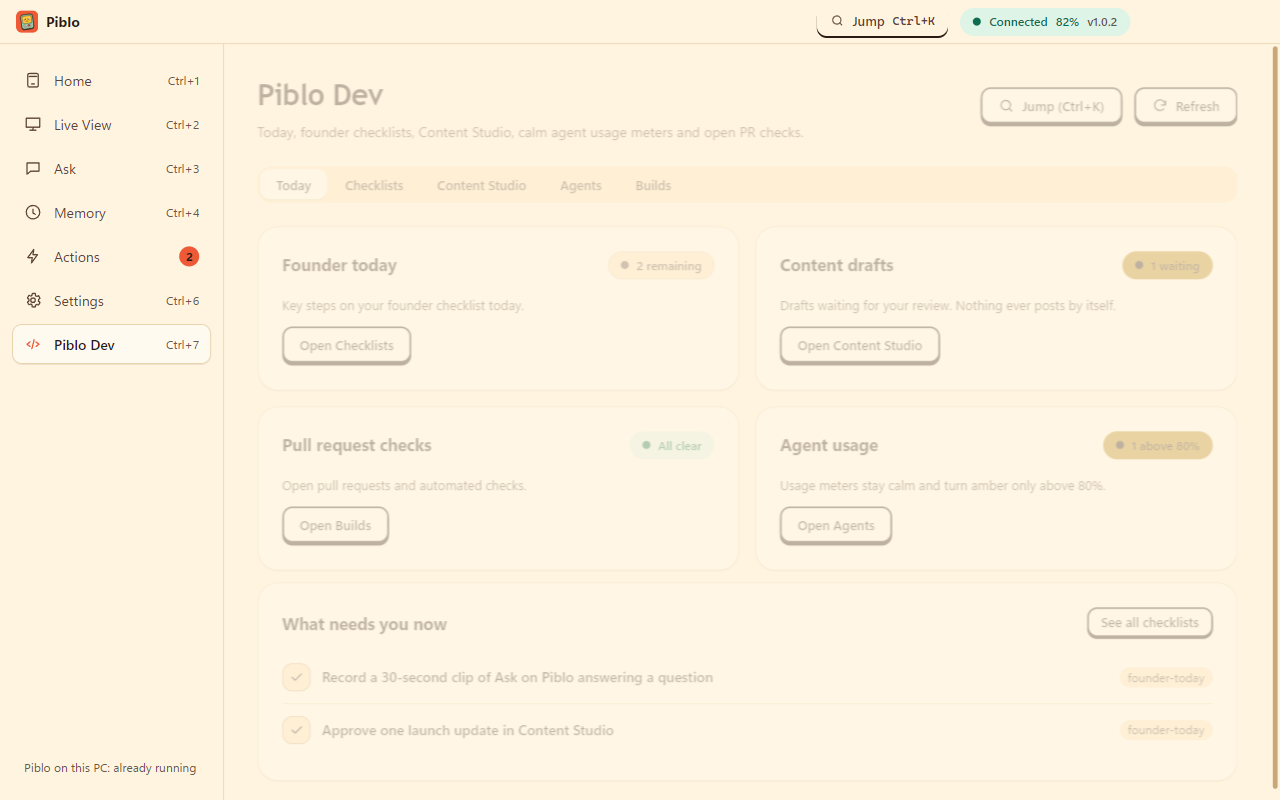
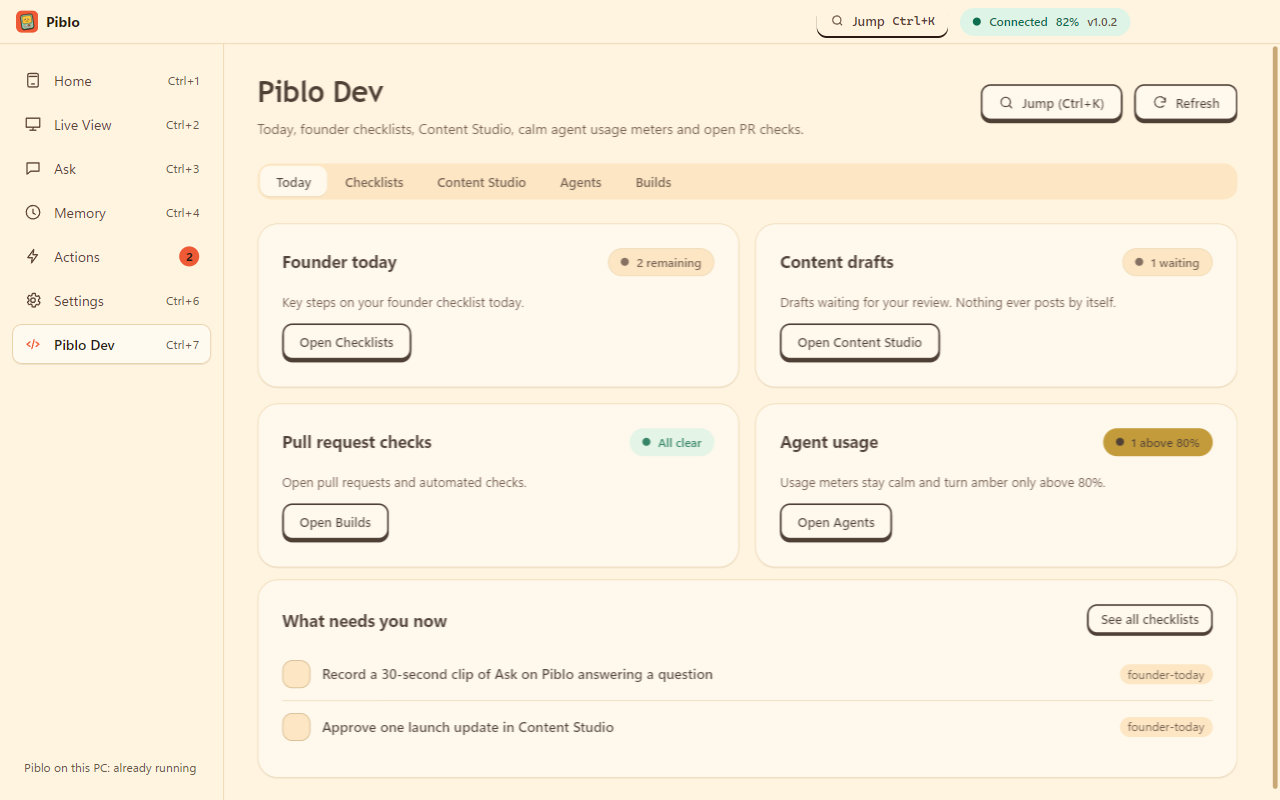
Piblo Dev Today: empty boxes for unticked items; amber only for usage above 80%

diff --git a/app/src/pages/PibloDev.tsx b/app/src/pages/PibloDev.tsx
@@ -81,7 +81,7 @@ export function DevTodayView({
         <section className="card stack" aria-labelledby="today-content-h">
           <div className="row">
             <h2 id="today-content-h" className="grow">Content drafts</h2>
-            <span className={`pill ${overview.drafts_awaiting_approval > 0 ? 'warn' : 'ok'}`}>
+            <span className={`pill ${overview.drafts_awaiting_approval > 0 ? '' : 'ok'}`}>
               <span className="dot" />
               {overview.drafts_awaiting_approval} waiting
             </span>
@@ -143,9 +143,7 @@ export function DevTodayView({
                   className="tick-btn"
                   aria-label={`Tick ${item.text}`}
                   onClick={() => onTick?.('founder-today', item.id, true)}
-                >
-                  <Icon name="check" size={16} />
-                </button>
+                />
                 <span className="grow title">{item.text}</span>
                 <span className="tag">founder-today</span>
               </div>
@@ -391,7 +389,7 @@ export function DevContentStudioView({
                   >
                     <span className="grow title">{d.title}</span>
                   </button>
-                  <span className={`pill ${d.status === 'posted' ? 'ok' : d.status === 'approved' ? 'warn' : ''}`}>
+                  <span className={`pill ${d.status === 'posted' ? 'ok' : ''}`}>
                     <span className="dot" />
                     {d.status}
                   </span>
